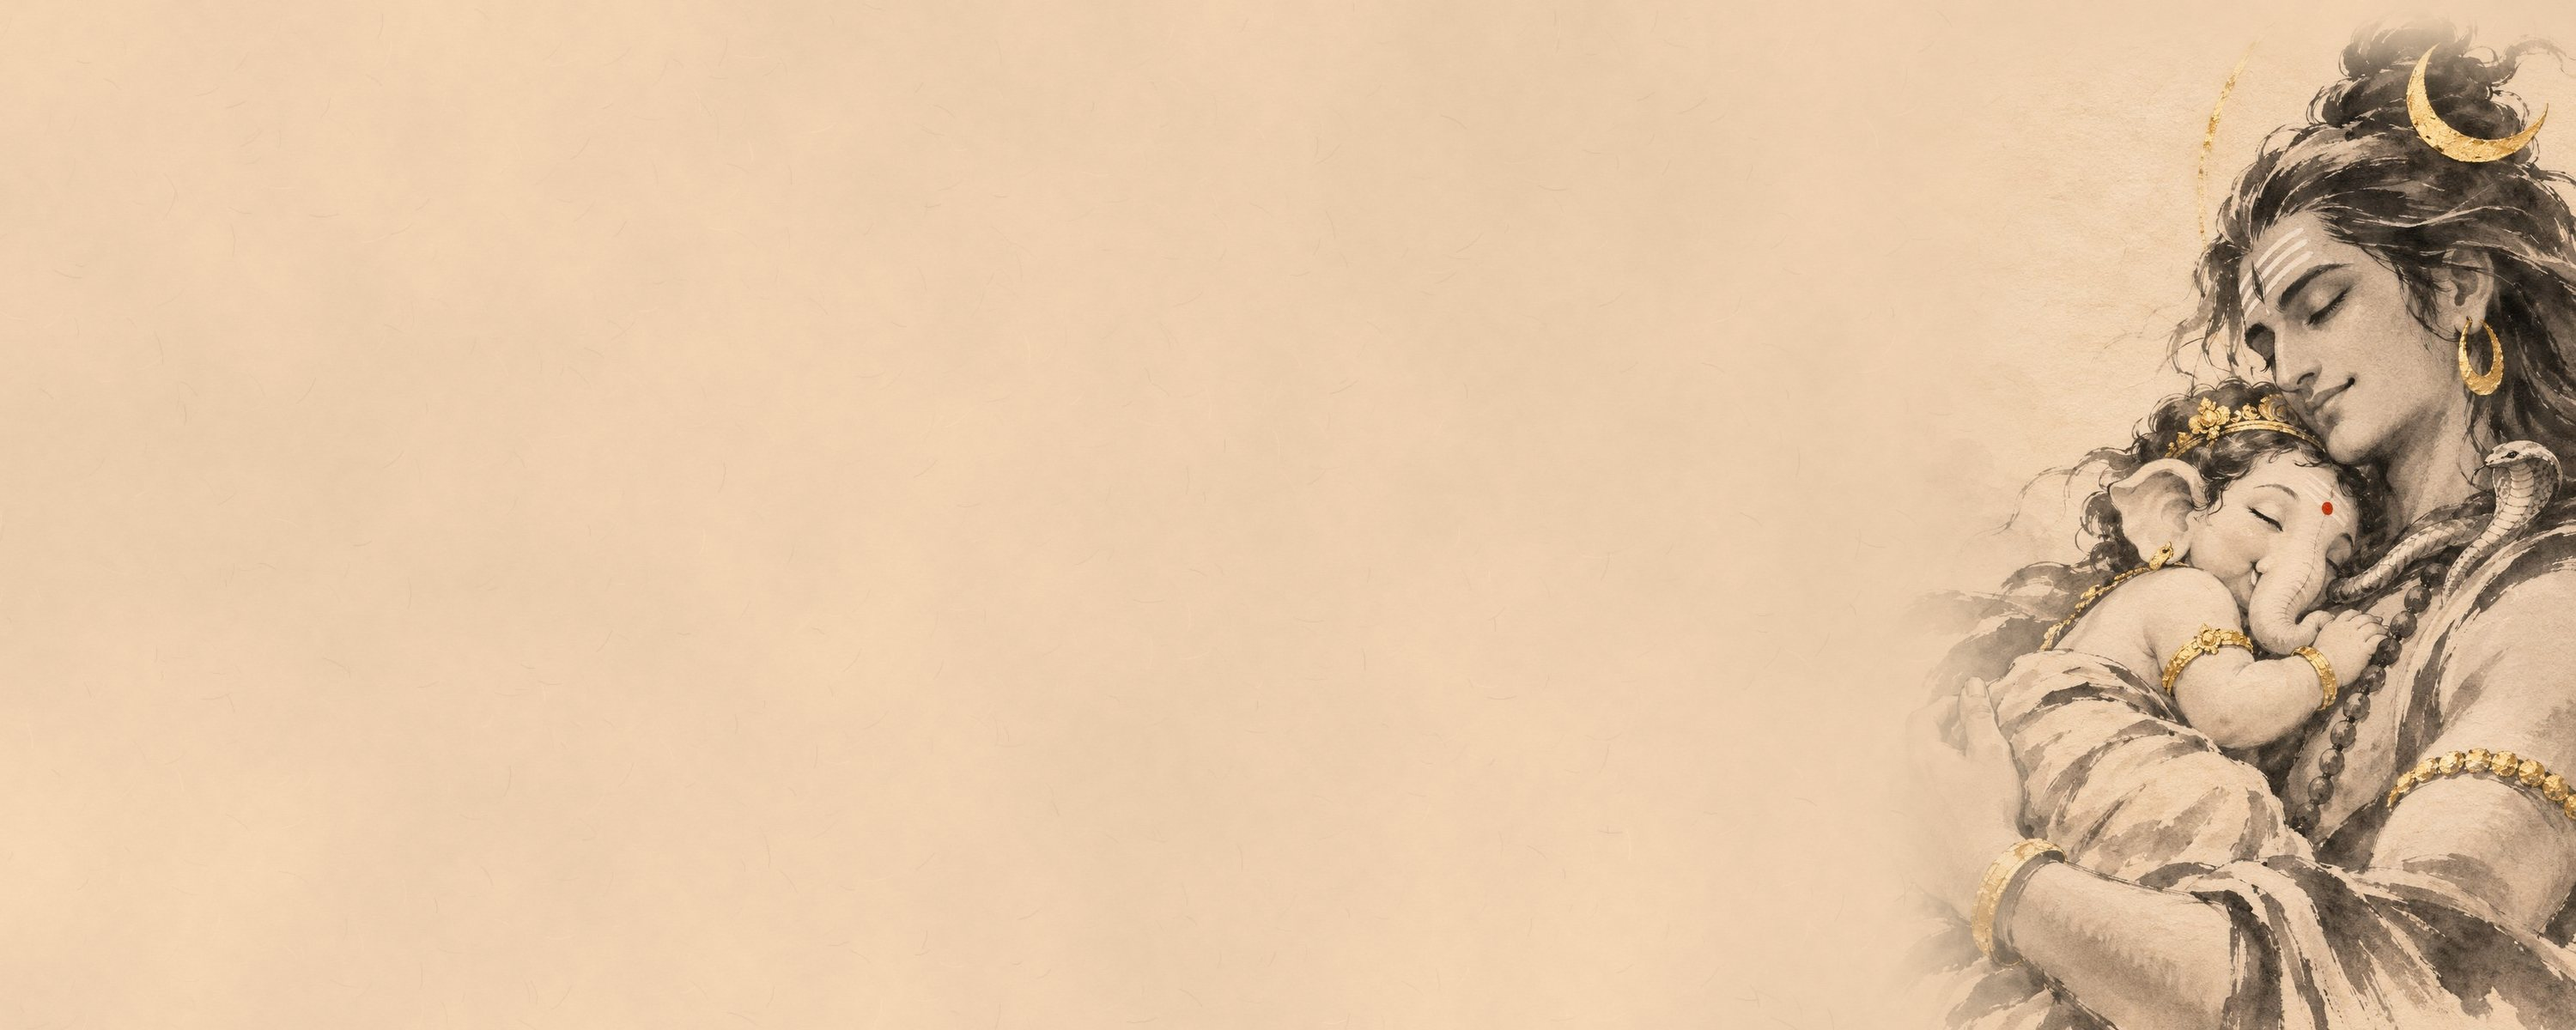
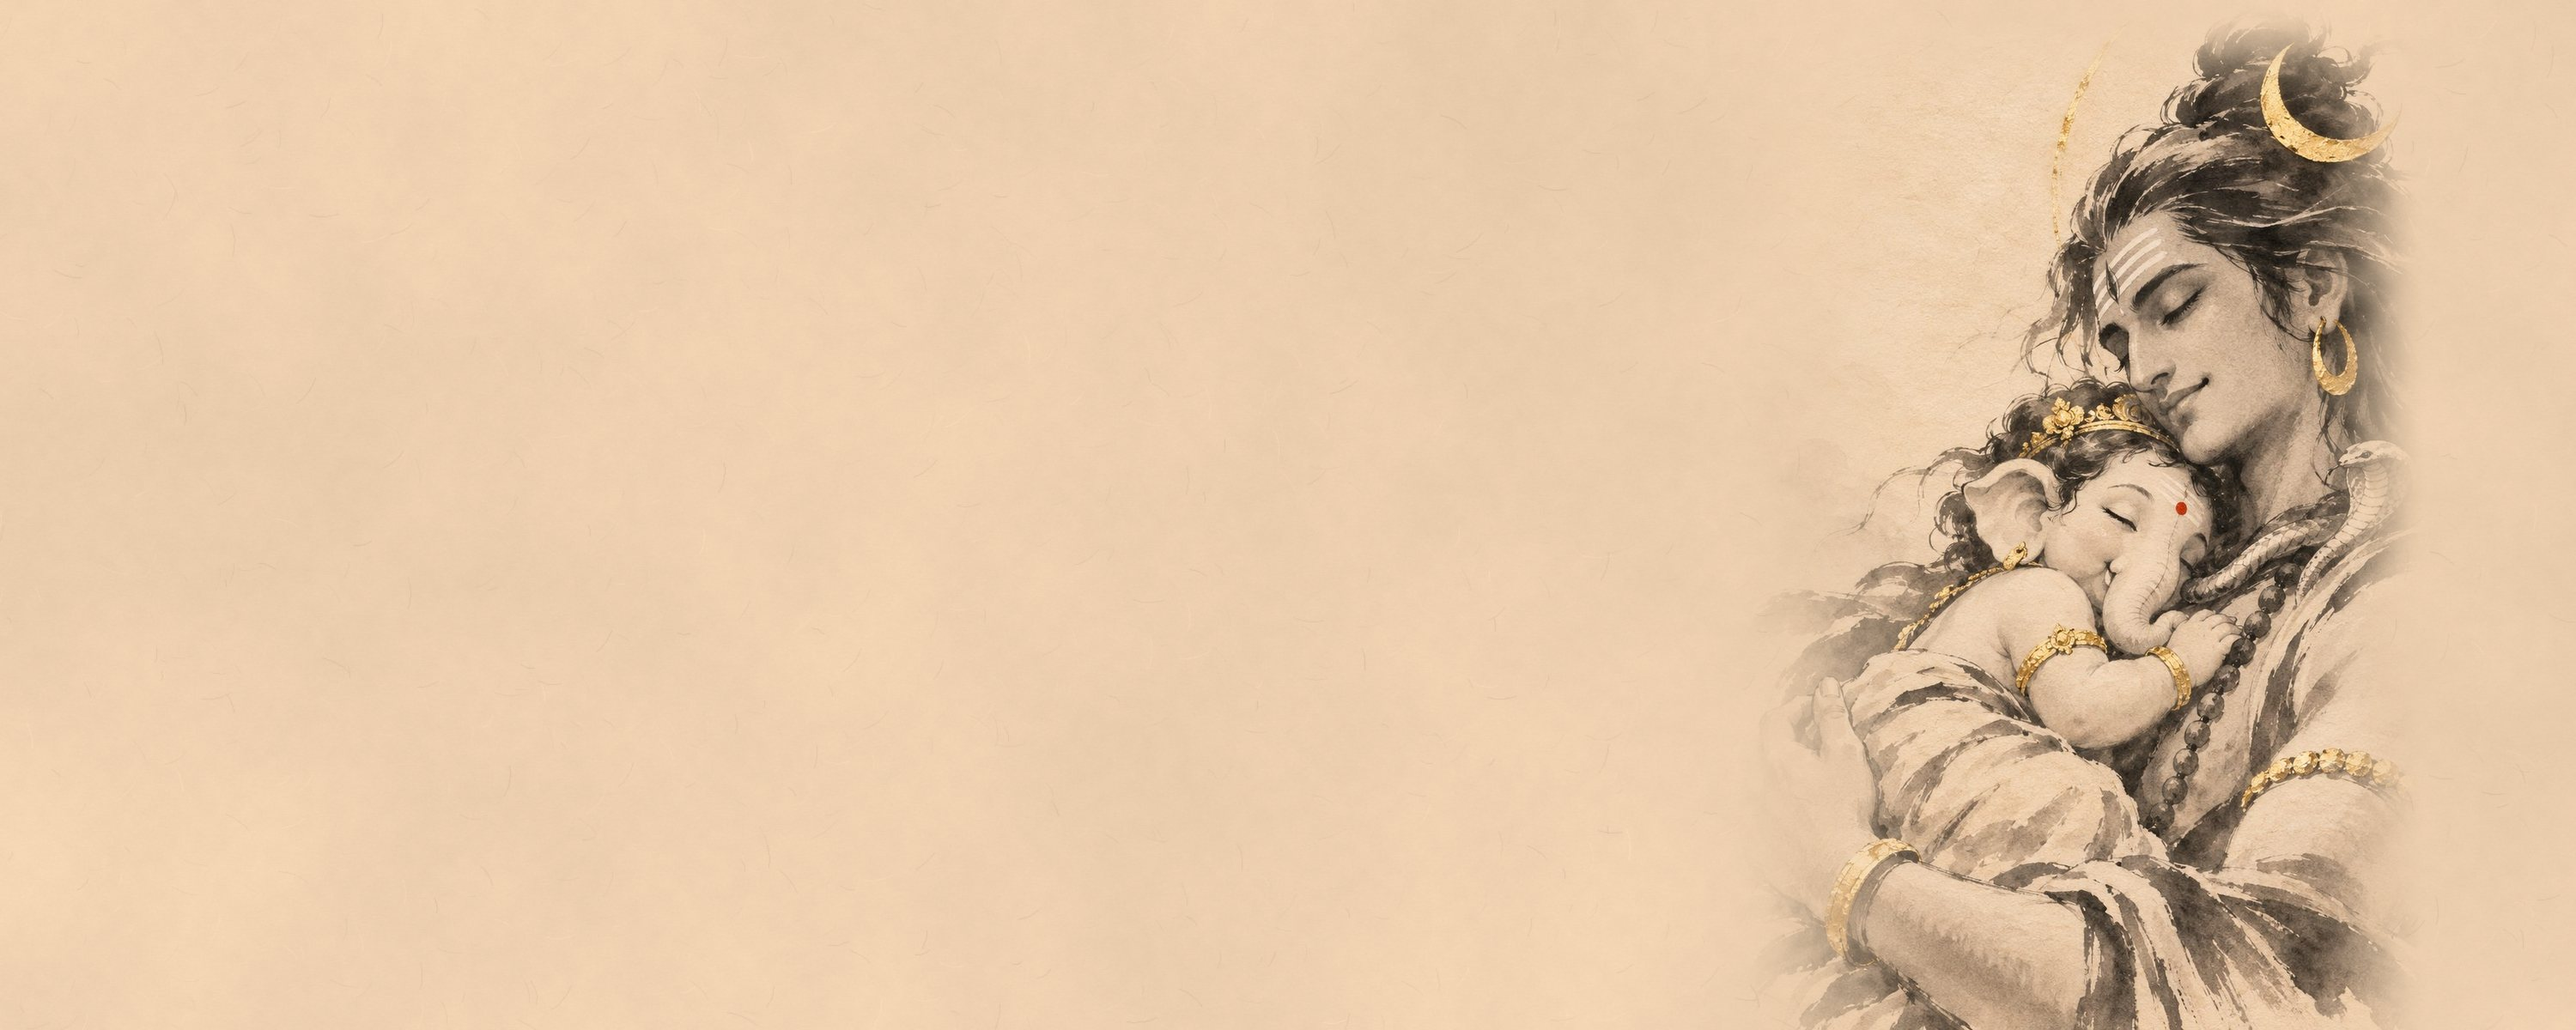
อัปเดตเว็บ (รุ่น 202611192357)

Changed region(s): [[0.682, 0.0308, 1.0, 1.0]]

diff --git a/preview-home/index.html b/preview-home/index.html
@@ -65,7 +65,8 @@ h1 em{font-style:normal;color:var(--accent)}
 .brush{height:9px;width:110px;margin-top:16px;background:var(--ink);border-radius:50%/100% 0 100% 0;opacity:.85}
 .hero p{margin-top:14px;color:var(--soft);font-weight:400;max-width:320px;font-size:17px;text-shadow:0 0 12px var(--paper),0 0 4px var(--paper)}
 .seal{position:absolute;right:24px;top:118px;z-index:2;width:48px;height:48px;border:2px solid var(--accent);color:var(--accent);font:600 14px/1.1 Trirong,serif;display:grid;place-items:center;text-align:center;transform:rotate(-6deg);border-radius:3px;opacity:.9}
-.cta{position:absolute;left:22px;right:22px;bottom:64px;z-index:2;display:flex;gap:10px;flex-wrap:wrap}
+.cta{margin-top:20px;display:flex;gap:8px;flex-wrap:wrap}
+.cta .btn,.cta .ghost{min-height:42px;padding:0 16px;font-size:15px}
 /* ตัวหนังสือกึ่งกลางปุ่มพอดี */
 .btn,.ghost{display:inline-flex;align-items:center;justify-content:center;gap:8px;min-height:54px;padding:0 24px;border-radius:2px;font-weight:500;font-size:17px;line-height:1;text-align:center;-webkit-tap-highlight-color:transparent;transition:background .25s,transform .2s}
 .btn{background:var(--ink);color:#f4ecdd}
@@ -107,7 +108,7 @@ h1 em{font-style:normal;color:var(--accent)}
 .copy{text-align:center;font-size:14px;line-height:1.8;color:var(--soft);padding:18px 22px max(22px,env(safe-area-inset-bottom))}
 .copy a{border-bottom:1px solid var(--line)}
 @media (max-width:899px){.copy{font-size:12px;letter-spacing:0;white-space:nowrap}.copy .th{display:none}.kick{padding-right:62px}}
-@media (max-width:370px){.top{padding-left:16px;padding-right:16px}.top nav{gap:10px}.lang{padding:4px 9px}.brand{letter-spacing:.14em}}
+@media (max-width:370px){.hero .art{object-position:50% 0%}.kick{font-size:13px;letter-spacing:.16em}.top{padding-left:16px;padding-right:16px}.top nav{gap:10px}.lang{padding:4px 9px}.brand{letter-spacing:.14em}}
 /* มือถือ: แถบสีหน้าเว็บตัดด้านล่างสุด · คอม: ตัวหนังสืออยู่บนกระดาษสา (ณัทกร 19 พ.ย.) */
 @media (min-width:900px){.copy{background:#ddcdb0 url(../assets/home/washi-warm.jpg) center bottom/706px;padding-top:0}}
 
@@ -129,8 +130,8 @@ h1 em{font-style:normal;color:var(--accent)}
  h1{font-size:62px}
  .hero p{max-width:400px;font-size:19px}
  .seal{right:auto;left:calc(max(40px,calc(50vw - 550px)) + 400px);top:160px}
- .cta{left:max(40px,calc(50vw - 550px));right:auto;bottom:140px}
- .btn,.ghost{min-height:58px;font-size:18px;padding:0 30px}
+ .cta{margin-top:44px;gap:10px}
+ .btn,.ghost,.cta .btn,.cta .ghost{min-height:58px;font-size:18px;padding:0 30px}
  .sec{padding:10px 40px 30px}
  .list{display:grid;grid-template-columns:repeat(3,1fr);gap:28px}
  .item{grid-template-columns:1fr;border-bottom:0;padding:26px 0 0;align-items:start}
@@ -160,9 +161,9 @@ h1 em{font-style:normal;color:var(--accent)}
       <h1 data-en="The Goodness<br>That Is <em>Eternal</em>">ความดีงาม<br>อันเป็น<em>นิรันดร์</em></h1>
       <div class="brush"></div>
       <p data-en="Hindu deities in Chinese ink, painted with lucky numbers from your own birth date.">องค์เทพหมึกจีน วาดคู่กับเลขมงคลจากวันเกิดของคุณเอง</p>
+      <div class="cta"><a class="btn" href="../wallpaper/" data-en="Create your wallpaper →">แต่งภาพของคุณ →</a><a class="ghost" href="../tarot/web/" data-en="Free tarot reading">เปิดไพ่ฟรี</a></div>
     </div>
     <div class="seal" aria-hidden="true">อมต<br>เทวา</div>
-    <div class="cta"><a class="btn" href="../wallpaper/" data-en="Create your wallpaper →">แต่งภาพของคุณ →</a><a class="ghost" href="../tarot/web/" data-en="Free tarot reading">เปิดไพ่ฟรี</a></div>
   </section>
 
   <section class="sec" aria-label="บริการของอมตเทวา">

diff --git a/tarot/web/result.html b/tarot/web/result.html
@@ -134,8 +134,8 @@ h1 em{font-style:normal;color:var(--gold-light)}
 <section class="read" id="read"></section>
 <div class="camnote" id="camnote"></div>
 <div class="dock" id="dock"><button class="cam" id="cam"><svg width="18" height="18" viewBox="0 0 24 24" fill="none" stroke="currentColor" stroke-width="1.6" stroke-linecap="round" stroke-linejoin="round"><path d="M23 19a2 2 0 0 1-2 2H3a2 2 0 0 1-2-2V8a2 2 0 0 1 2-2h4l2-3h6l2 3h4a2 2 0 0 1 2 2z"/><circle cx="12" cy="13" r="4"/></svg><span>บันทึกภาพไพ่</span></button><div class="btn" id="again">สับใหม่</div><div class="btn" id="home">หน้าแรก</div></div>
-<script src="../js/cards-data.js?v=202611192344"></script>
-<script src="flow.js?v=202611192344"></script>
+<script src="../js/cards-data.js?v=202611192357"></script>
+<script src="flow.js?v=202611192357"></script>
 <script>
 let QTEXT='';try{QTEXT=(sessionStorage.getItem('tarot-q')||'').trim()}catch(e){}
 // เปิดต่อจากแอป LINE: คำถามมากับส่วนท้ายลิงก์ (#q=) ซึ่งไม่ถูกส่งไปที่เซิร์ฟเวอร์

diff --git a/tarot/web/index.html b/tarot/web/index.html
@@ -23,7 +23,7 @@ iframe.in.soft{transition:opacity .75s cubic-bezier(.45,0,.25,1)}
 let cur=null,next=null,pres={},timer=0,ask=0,st={};
 const O=location.origin;
 // รุ่นของเว็บ: สคริปต์ขึ้นเว็บใส่เลขให้ทุกครั้ง → ทุกฉากโหลดไฟล์รุ่นใหม่ ไม่ติดของเก่าที่มือถือจำไว้ (ในเครื่องว่างไว้)
-const V='202611192344';
+const V='202611192357';
 function mk(src){const f=document.createElement('iframe');f.src=V?src+(src.includes('?')?'&':'?')+'v='+V:src;f.dataset.src=src;document.body.appendChild(f);return f}
 function load(src,hand){
   if(pres[src]){next=pres[src];delete pres[src]}else next=mk(src);

diff --git a/wallpaper/index.html b/wallpaper/index.html
@@ -291,7 +291,7 @@ fbq('track','PageView');
         <label for="amp" data-en-hide>อำเภอที่เกิด</label><select id="amp" data-en-hide></select>
         <p class="help" hidden data-en-show>Birth places cover Thailand only. Born elsewhere? Tap “I don’t know my birth time” — your birth date alone is enough.</p>
       </div>
-      <button class="btn solid shine" style="margin-top:16px" data-en="Free · What do the deities want to tell me?">ดูฟรี · องค์เทพอยากบอกอะไร</button>
+      <button class="btn solid shine" style="margin-top:16px" data-en="What do the deities want to tell me?">องค์เทพอยากบอกอะไร</button>
       <div class="err" id="err" hidden></div>
     </form>
   </section>

diff --git a/tarot/web/shuffle.html b/tarot/web/shuffle.html
@@ -65,7 +65,7 @@ h1 em{font-style:normal;color:var(--gold-light)}
     <div class="btns"><div class="btn off" id="b1">ตัดไพ่<small>แบ่ง 3 กอง แล้วเรียงใหม่</small></div><div class="btn off" id="b2">กรีดไพ่<small>เลือกไพ่ทันที</small></div></div>
   </main>
 </div>
-<script src="flow.js?v=202611192344"></script>
+<script src="flow.js?v=202611192357"></script>
 <script>
 if(IN_SHELL)parent.postMessage({preload:['pick.html?'+new URLSearchParams(ST),'cut.html?'+new URLSearchParams(ST)]},location.origin); // โหลดฉากกรีดไพ่+ตัดไพ่เตรียมไว้ กดแล้วไปต่อได้ทันที
 

diff --git a/tarot/web/cut.html b/tarot/web/cut.html
@@ -72,7 +72,7 @@ h1 em{font-style:normal;color:var(--gold-light)}
     <div class="hint" id="hint">เลือก<b>กองแรก</b></div>
   </main>
 </div>
-<script src="flow.js?v=202611192344"></script>
+<script src="flow.js?v=202611192357"></script>
 <script>
 if(IN_SHELL)parent.postMessage({preload:'pick.html?'+new URLSearchParams(ST)},location.origin); // โหลดฉากกรีดไพ่เตรียมไว้ กดแล้วสำรับเลื่อนได้ทันที
 

diff --git a/tarot/web/pick.html b/tarot/web/pick.html
@@ -64,7 +64,7 @@ h1 em{font-style:normal;color:var(--gold-light)}
     <div class="bar fadein"><div class="cnt">เลือกแล้ว<b id="n">0</b>/ <span id="need">3</span> ใบ</div><div class="btn off" id="go">เปิดไพ่</div></div>
   </main>
 </div>
-<script src="flow.js?v=202611192344"></script>
+<script src="flow.js?v=202611192357"></script>
 <script>
 const NEED=SPREADS[ST.sp].length;
 document.getElementById('bg').style.backgroundImage=`url("${D.marble}")`;

diff --git a/tarot/web/spread.html b/tarot/web/spread.html
@@ -212,7 +212,7 @@ h1 em{font-size:1em}
     <div class="close" id="pk-close">CLOSE</div>
   </div>
 </div>
-<script src="flow.js?v=202611192344"></script>
+<script src="flow.js?v=202611192357"></script>
 <script>
 document.body.classList.add('b6'); // ปุ่มกระจกฝ้า (ณัทกรเลือก)
 // สำรับที่เลือกไว้ครั้งก่อน (จำในเครื่องนี้)
